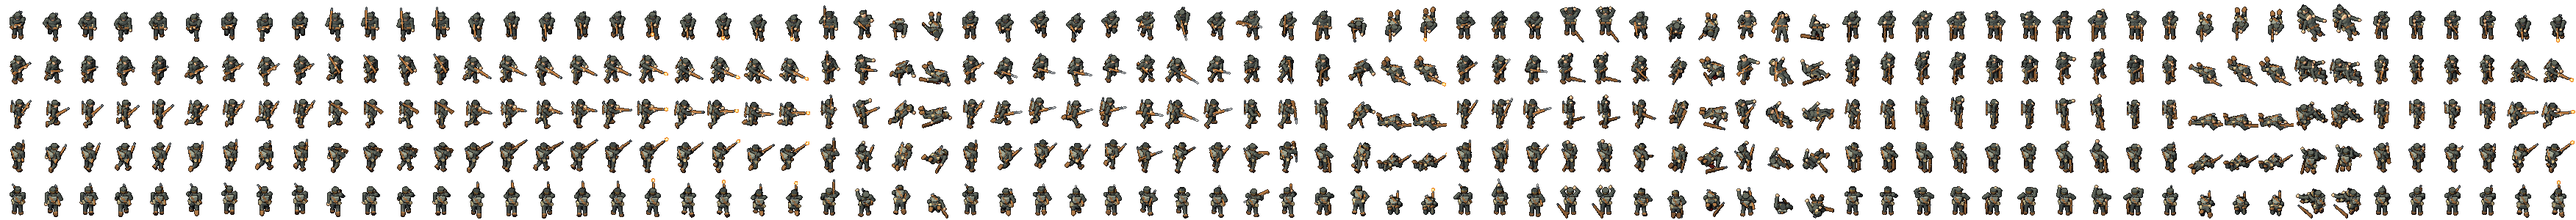
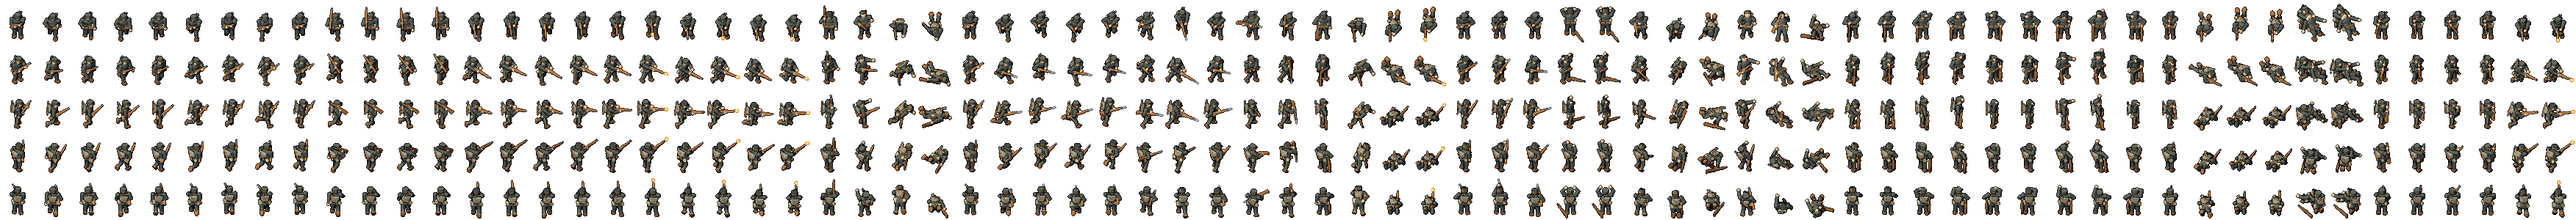
T32d fix: pioneer prone E/NE muzzle clipped by 192x240 cell -> per-unit e/ne prone view_yaw (opt-in ne_view_yaw), edge_check tool, re-render+import pioneer only, sheet before/after

diff --git a/game-tools/image/tools/edge_check.py b/game-tools/image/tools/edge_check.py
@@ -1,0 +1,30 @@
+"""Muzzle/limb clipping check: lists sprite cells whose opaque pixels touch the frame border (a clipped silhouette).
+python tools/edge_check.py <unit_dir> <unit_name> [<tag>]   e.g. ..\korean-division-image-out\_res96\korean\infantry-pioneer infantry-pioneer
+Exit code 1 if any cell touches. Reads per-sheet frame size when a layout has one."""
+import json, os, sys
+import numpy as np
+from PIL import Image
+
+
+def touching(d, name, tag=""):
+    L = json.load(open(os.path.join(d, f"{name}{tag}_layout.json"), encoding="utf-8"))
+    sheets = {s["file"]: s for s in L["sheets"]}
+    imgs = {}
+    bad = []
+    for fr, c in L["cells"].items():
+        s = sheets[c["sheet"]]
+        fw, fh = s.get("frame", L["frame"])
+        if c["sheet"] not in imgs:
+            imgs[c["sheet"]] = np.array(Image.open(os.path.join(d, c["sheet"])))[..., 3]
+        for r, dn in enumerate(L["dirs"]):
+            cell = imgs[c["sheet"]][r * fh:(r + 1) * fh, c["col"] * fw:(c["col"] + 1) * fw]
+            e = "".join(k for k, v in (("L", cell[:, 0]), ("R", cell[:, -1]), ("T", cell[0]), ("B", cell[-1])) if v.any())
+            if e:
+                bad.append((dn, fr, e))
+    return bad
+
+
+if __name__ == "__main__":
+    bad = touching(sys.argv[1], sys.argv[2], sys.argv[3] if len(sys.argv) > 3 else "")
+    print(f"{len(bad)} cells touch the frame border" + ("" if not bad else ": " + " ".join(f"{d}/{f}({e})" for d, f, e in bad)))
+    sys.exit(1 if bad else 0)

diff --git a/game-tools/image/tools/bases/infantry.py b/game-tools/image/tools/bases/infantry.py
@@ -233,6 +233,8 @@ def _tuned(frame, p):
         if T.get("ne_swing", {}).get("prone"): p["ne_swing"] = tuple(T["ne_swing"]["prone"])
     if frame in ("aim_prone", "fire_prone") and T.get("e_view_yaw", {}).get("prone"):
         p["e_view_yaw"] = T["e_view_yaw"]["prone"]
+    if frame in ("aim_prone", "fire_prone") and T.get("ne_view_yaw", {}).get("prone"):
+        p["ne_view_yaw"] = T["ne_view_yaw"]["prone"]
     if frame in ("aim_prone", "fire_prone") and T.get("e_slide", {}).get("prone"):
         p["e_slide"] = T["e_slide"]["prone"]
     return p
@@ -246,6 +248,9 @@ def apply_e_view(p, d, e_extra=0.0):
     vyaw = p.pop("e_view_yaw", 0.0)              # prone E: whole figure turned toward the camera so the 128 px cell holds boots + muzzle flash
     if vyaw and d == "e":
         p["view_yaw"] = p.get("view_yaw", 0.0) + vyaw
+    nvyaw = p.pop("ne_view_yaw", 0.0)            # prone NE (opt-in per unit via tune): same idea, for units whose long prone overflows the cell diagonally
+    if nvyaw and d == "ne":
+        p["view_yaw"] = p.get("view_yaw", 0.0) + nvyaw
     sfield = p.pop("e_swing_field", "yaw")
     slide = p.pop("e_slide", 0.0)                # prone: rifle slid back toward the feet in the E view (muzzle flash would leave the frame)
     long_only = p.pop("e_long_only", False)      # pose with no base pull: only rifles longer than the standard one (e_extra above E_LONG std) get pulled in
